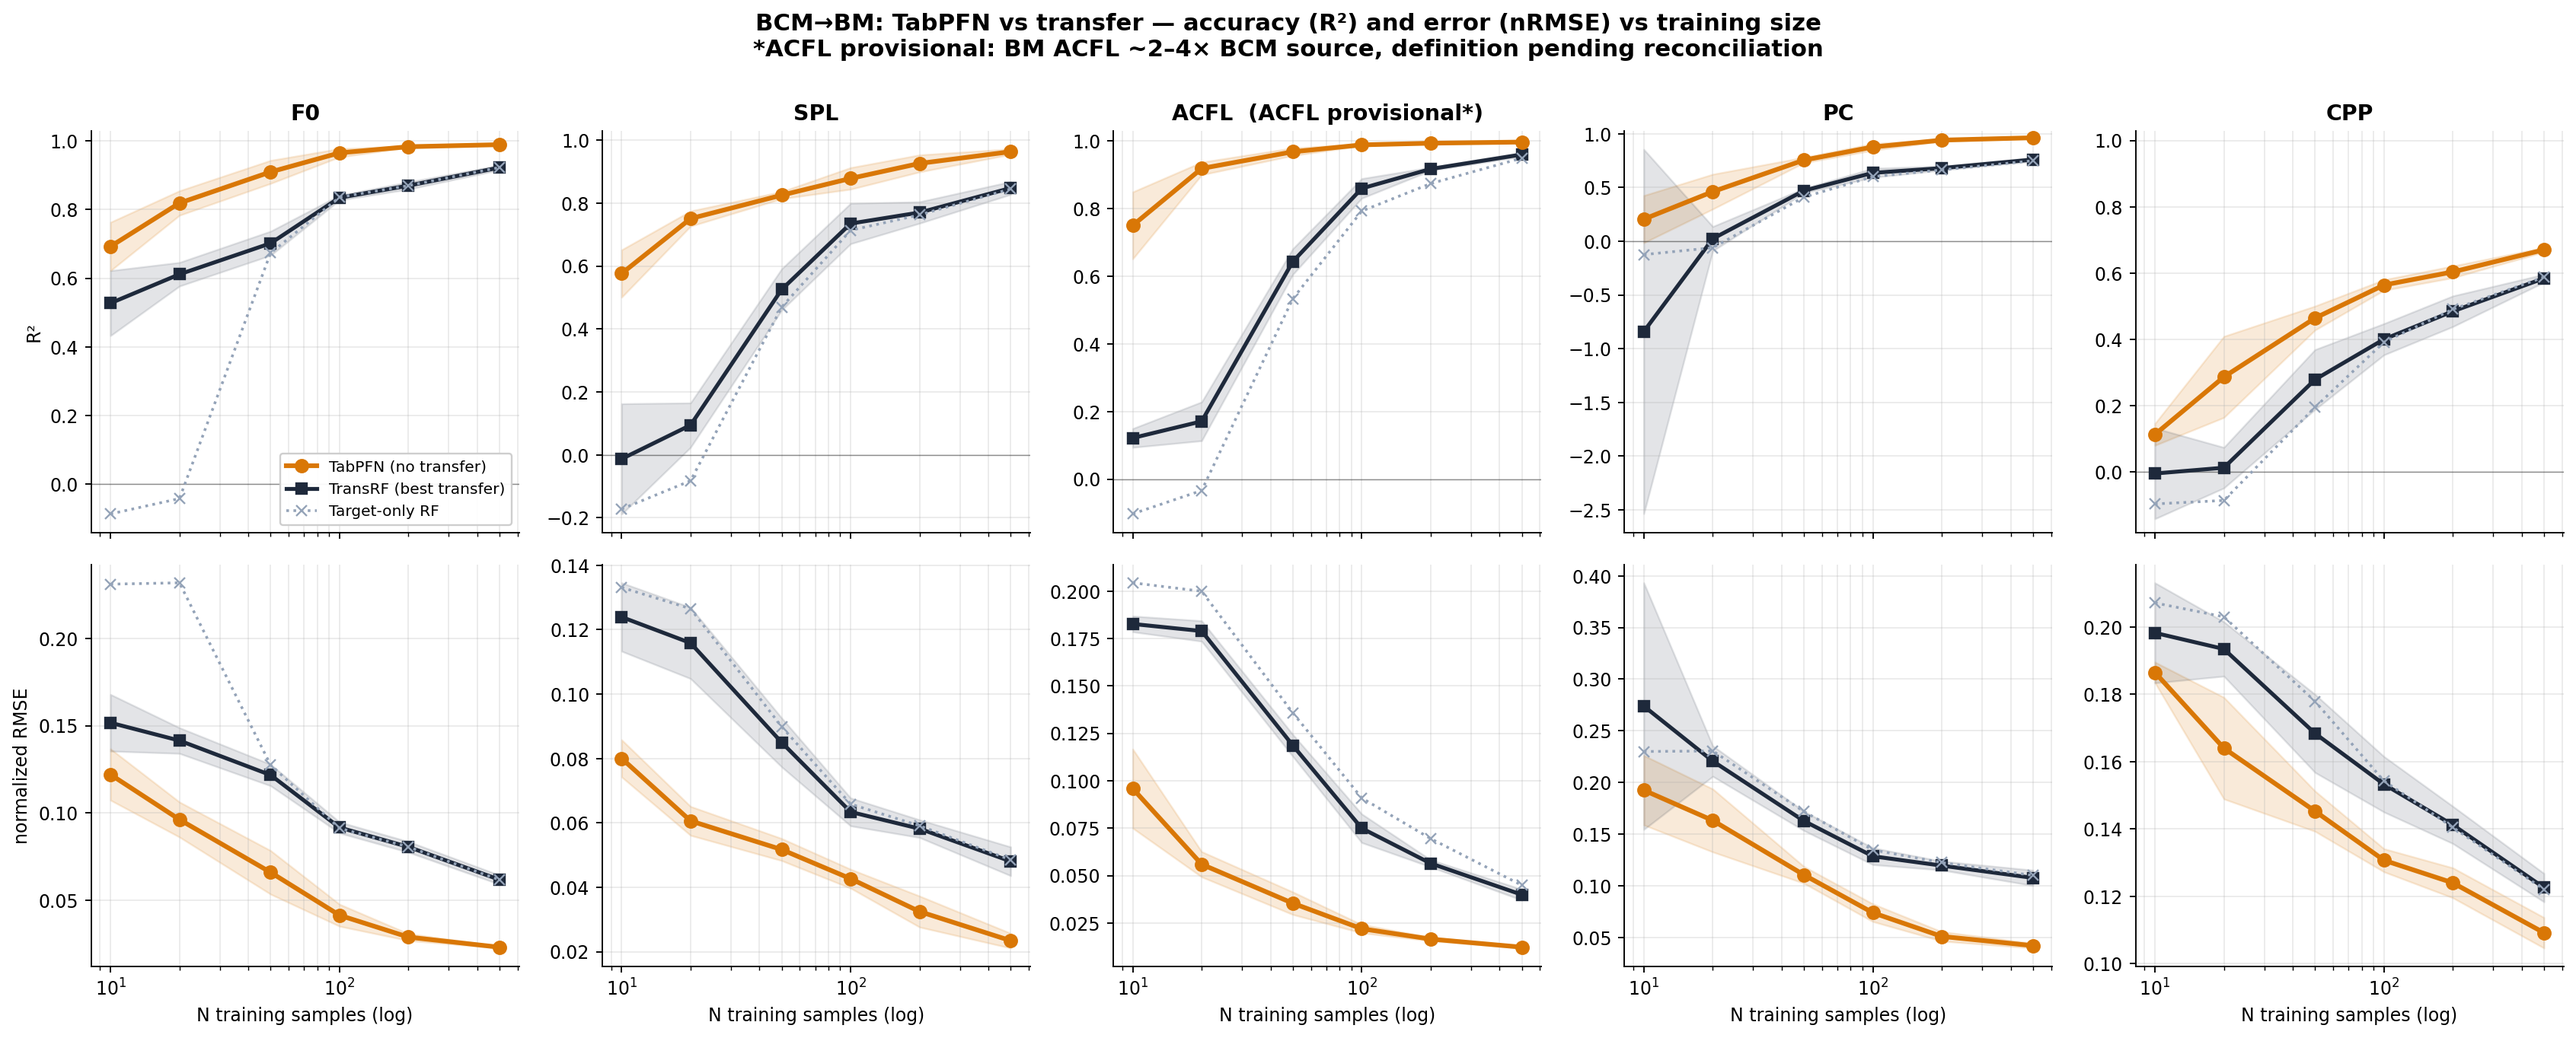
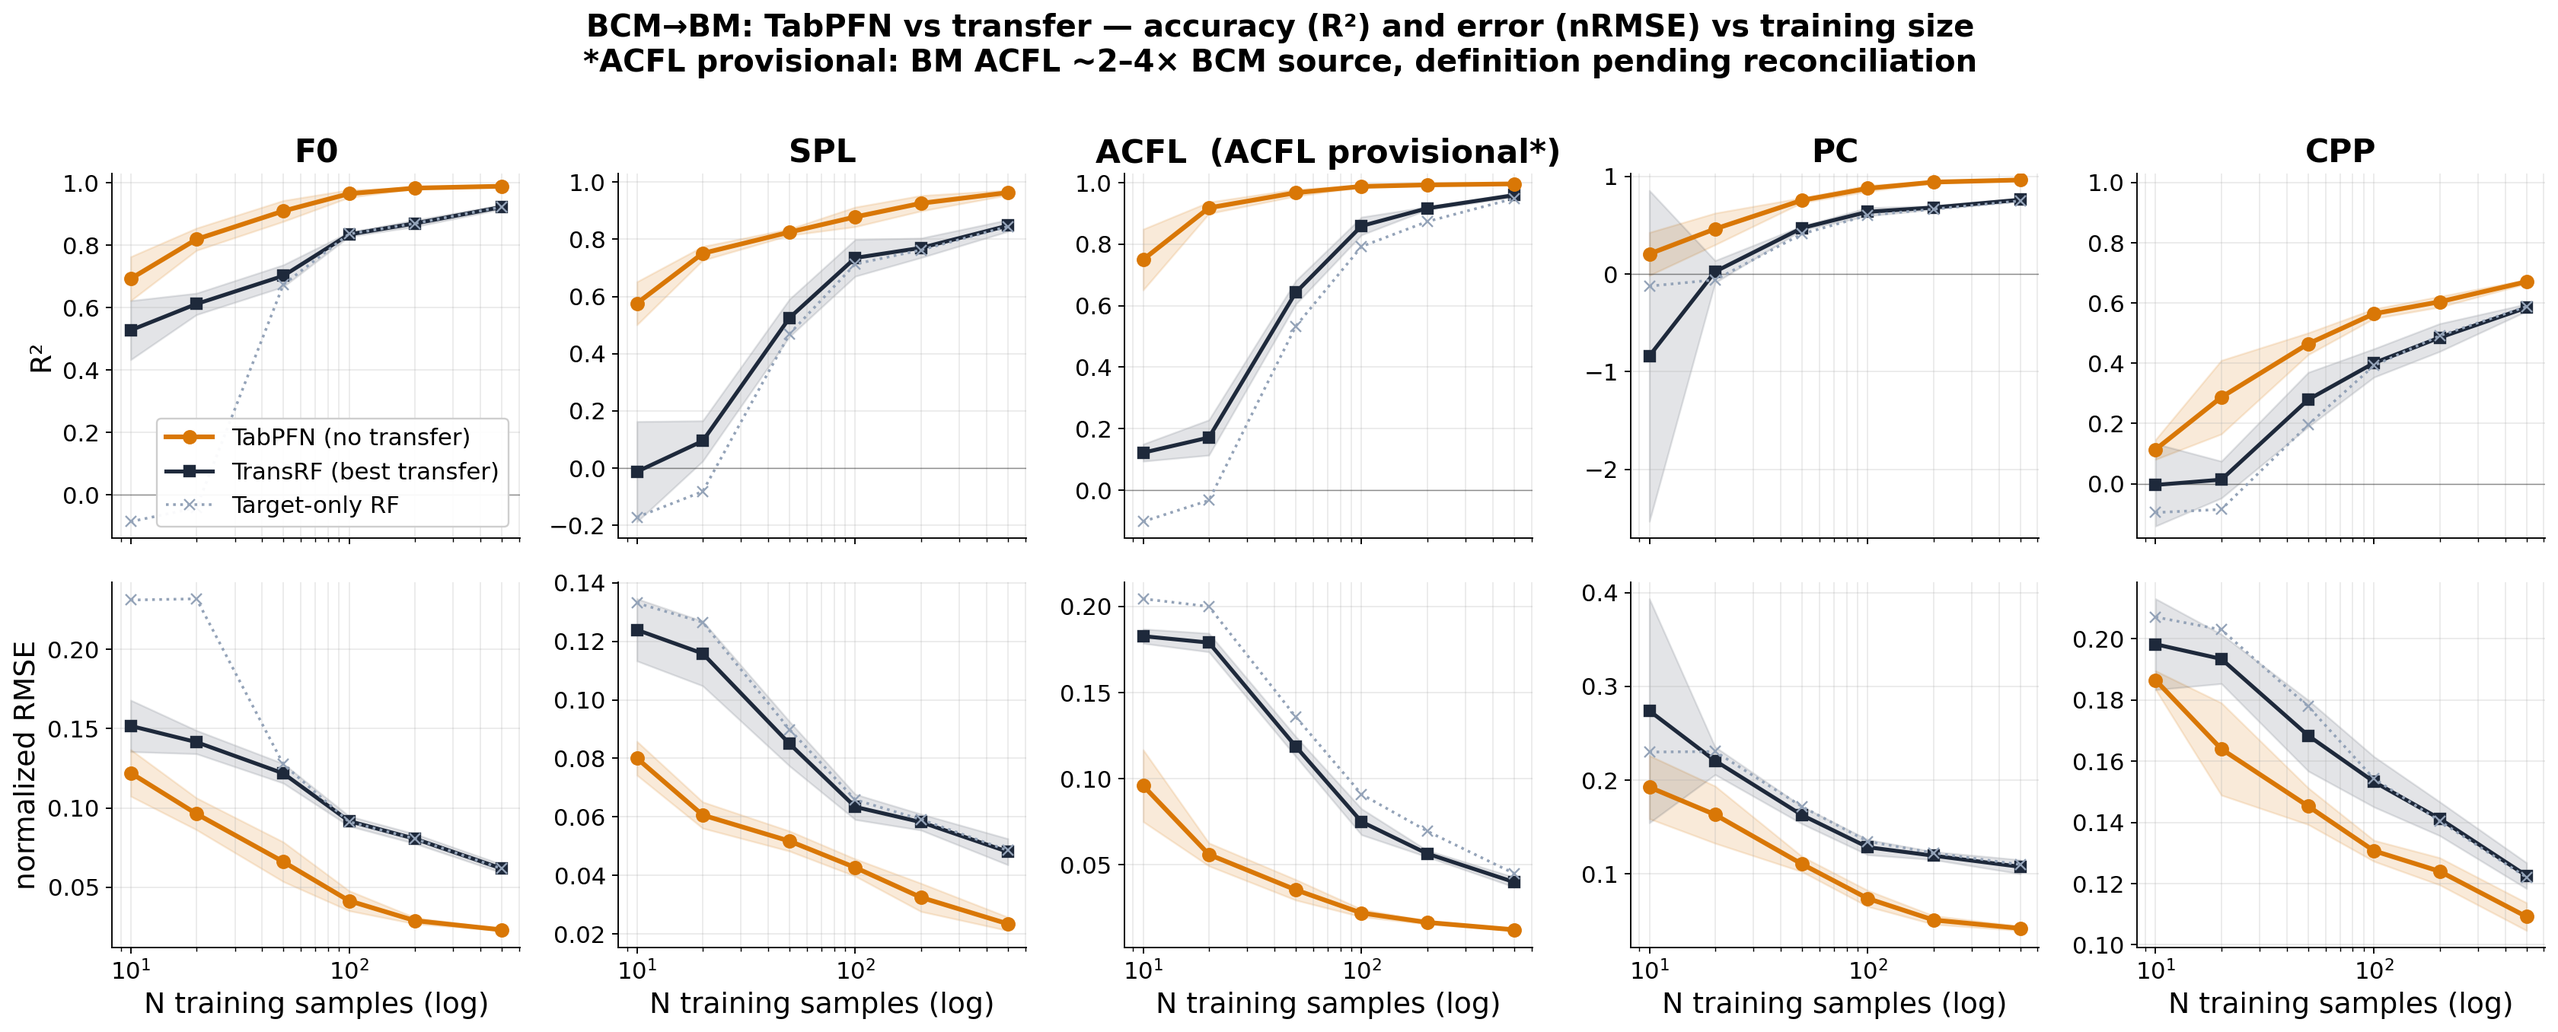
figs(BM): enlarge fonts in BM_Extended_Compare for presentation legibility

diff --git a/Beam_Membrane/BM_Extended_Compare.py b/Beam_Membrane/BM_Extended_Compare.py
@@ -63,8 +63,9 @@ def main():
     tr = load_transfer()
     tab = load_tabpfn()
 
-    plt.rcParams.update({'font.size': 10, 'axes.titlesize': 12, 'axes.labelsize': 10,
-                         'legend.fontsize': 8.5, 'axes.spines.top': False,
+    plt.rcParams.update({'font.size': 15, 'axes.titlesize': 18, 'axes.labelsize': 16,
+                         'xtick.labelsize': 13, 'ytick.labelsize': 13,
+                         'legend.fontsize': 13, 'axes.spines.top': False,
                          'axes.spines.right': False})
     fig, axes = plt.subplots(2, len(TARGETS), figsize=(4.0 * len(TARGETS), 8), sharex=True)
 
@@ -100,7 +101,7 @@ def main():
     axes[0, 0].legend(loc='lower right', framealpha=0.95)
     fig.suptitle('BCM→BM: TabPFN vs transfer — accuracy (R²) and error (nRMSE) vs training size\n'
                  '*ACFL provisional: BM ACFL ~2–4× BCM source, definition pending reconciliation',
-                 fontweight='bold', fontsize=13, y=1.0)
+                 fontweight='bold', fontsize=17, y=1.0)
     fig.tight_layout()
     os.makedirs(figs_dir, exist_ok=True)
     path = os.path.join(figs_dir, 'bm_ext_metrics_vs_n.png')
